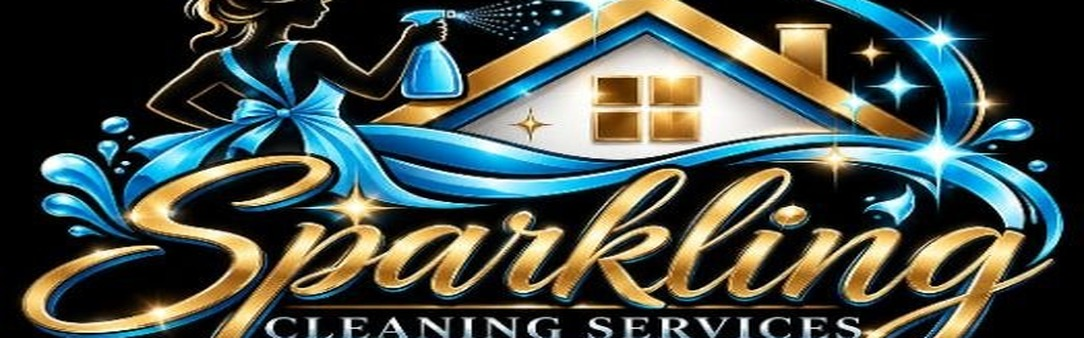
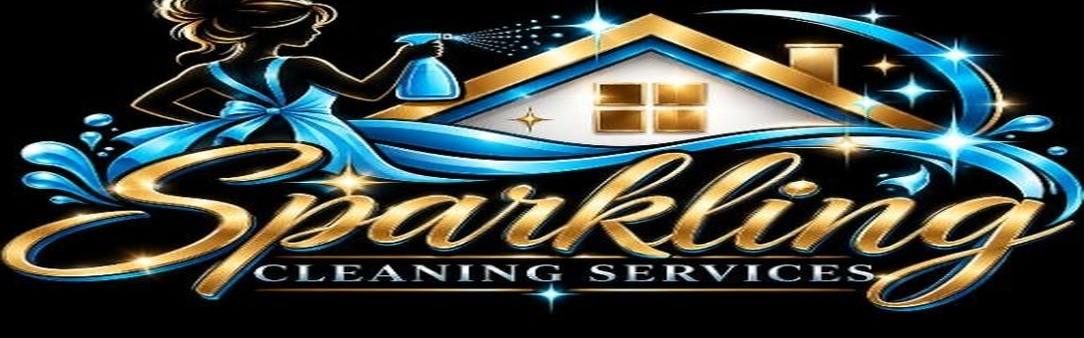
v0.10 — remove gallery section, crop web1.jpg text band, use as hero on both pages

diff --git a/page2.html b/page2.html
@@ -503,7 +503,7 @@
         <a href="#quote" class="btn btn-primary">Get a Free Quote</a>
         <a href="#pricing" class="btn btn-ghost">See Pricing</a>
       </div>
-      <img src="assets/screenshot-hero.jpg" alt="Sparkling Cleaning Services — results you can see" class="hero-image">
+      <img src="assets/hero-band.jpg" alt="Sparkling Cleaning Services — results you can see" class="hero-image">
       <div class="trust-row">
         <div><strong>4+</strong>Home Sizes Served</div>
         <div><strong>$80</strong>Starting Price</div>
@@ -515,7 +515,7 @@
   <!-- SHOWCASE — Full image -->
   <section class="showcase">
     <div class="wrap">
-      <img src="assets/screenshot-hero.jpg" alt="Sparkling Cleaning Services — professional results" loading="lazy">
+      <img src="assets/hero-band.jpg" alt="Sparkling Cleaning Services — professional results" loading="lazy">
       <p class="showcase-caption">The Sparkling standard — every home, every visit.</p>
     </div>
   </section>

diff --git a/index.html b/index.html
@@ -666,25 +666,6 @@
     </div>
   </section>
 
-  <!-- GALLERY -->
-  <section class="gallery-section">
-    <div class="wrap">
-      <div class="section-head">
-        <span class="kicker">Our Work</span>
-        <h2>See the Difference</h2>
-        <p>Every home we clean gets the same attention to detail and care.</p>
-      </div>
-      <div class="gallery-grid">
-        <div class="gallery-item">
-          <img src="assets/web1.jpg" alt="Professional cleaning results" loading="lazy">
-        </div>
-        <div class="gallery-item">
-          <img src="assets/screenshot.png" alt="Sparkling Cleaning Services reference" loading="lazy">
-        </div>
-      </div>
-    </div>
-  </section>
-
   <!-- TAGLINE -->
   <section class="tagline-section">
     <div class="wrap">
